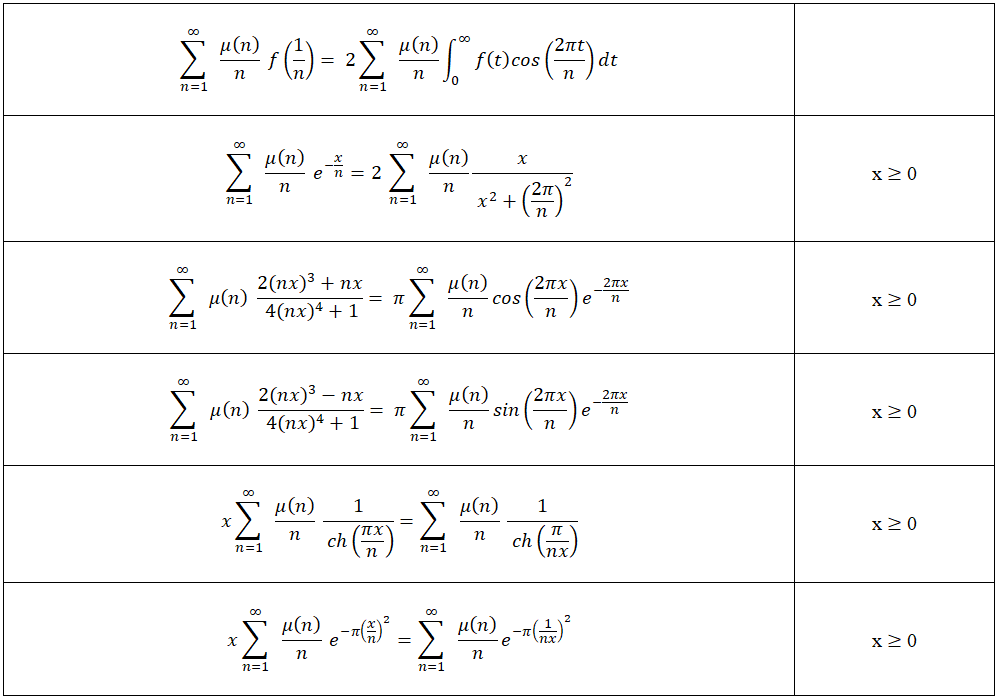
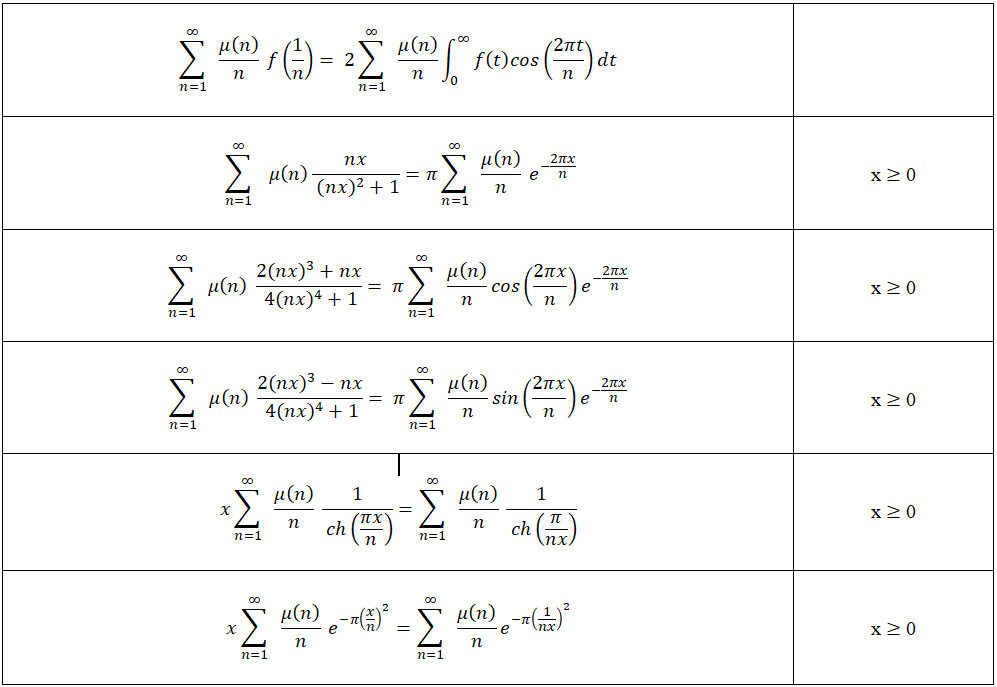
summa_formula2.png

diff --git a/rus_formula.html b/rus_formula.html
@@ -30,7 +30,8 @@
         <br><center><img src="doc/mobius_inversion3.png"></center><br>
     <BR><DIV class=h>Формулы суммирования</DIV><BR>
     <br><center><img src="doc/summa_formula1.png"></center><br>
-    <br><center><img src="doc/summa_formula.png"></center><br>
+    <br><center><img src="doc/summa_formula.png"></center>
+    <center><img src="doc/summa_formula2.png"></center><br>
     <BR><DIV class=h>Произведения</DIV><BR>
         <br><center><img src="doc/products.png"></center><br>
     <BR><DIV class=h><NOBR>Разное</NOBR></DIV><BR>

diff --git a/eng_formula.html b/eng_formula.html
@@ -40,7 +40,8 @@
     <br><center><img src="doc/mobius_inversion3.png"></center><br>
     <BR><DIV class=h>Summation formulas</DIV><BR>
     <br><center><img src="doc/summa_formula1.png"></center><br>
-    <br><center><img src="doc/summa_formula.png"></center><br>
+    <br><center><img src="doc/summa_formula.png"></center>
+    <center><img src="doc/summa_formula2.png"></center><br>
 
     <BR><DIV class=h>Products</DIV><BR>
     <br><center><img src="doc/products.png"></center><br>
